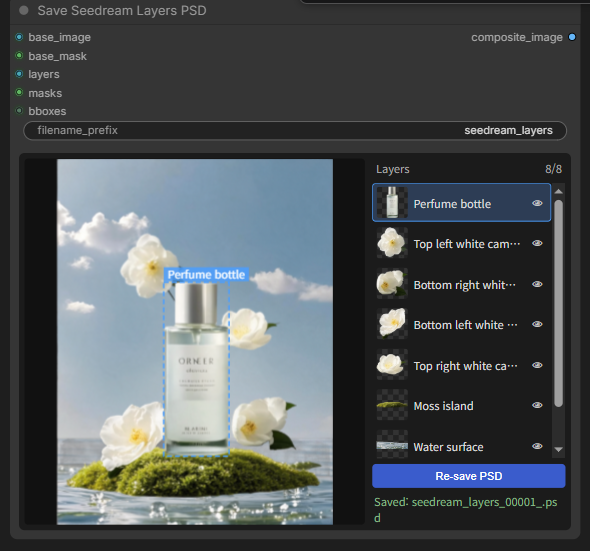
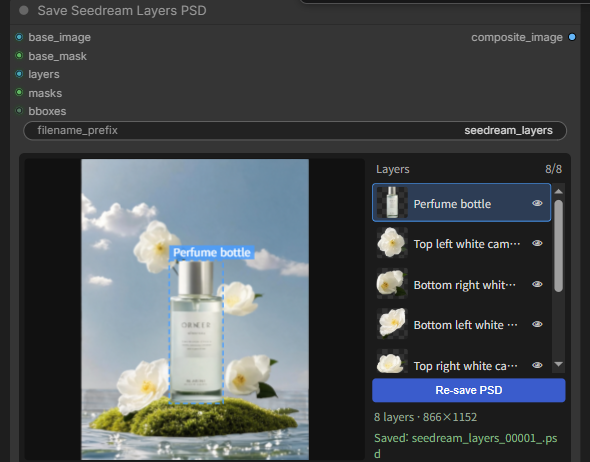
Save panel: add layer count / canvas size caption (parity with Load panel)
Also refresh the Save screenshot. Bump to 1.0.1.

diff --git a/web/js/saveSeedreamLayersPsd.js b/web/js/saveSeedreamLayersPsd.js
@@ -41,6 +41,7 @@ const STYLE = `
   background:#3a5ccc; color:#fff; font-size:12px; }
 .ssl-save:hover { background:#4a6cdc; }
 .ssl-save:disabled { background:#333; color:#777; cursor:default; }
+.ssl-info { flex:none; color:#9a9; padding:0 2px; }
 .ssl-status { flex:none; min-height:15px; max-height:45px; overflow-y:auto;
   color:#8b8; padding:0 2px; word-break:break-all; }
 .ssl-status.ssl-err { color:#c77; }
@@ -81,6 +82,7 @@ class LayerPanel {
         <div class="ssl-head"><span class="ssl-word"></span><span class="ssl-count"></span></div>
         <div class="ssl-list"></div>
         <button class="ssl-save"></button>
+        <div class="ssl-info"></div>
         <div class="ssl-status"></div>
       </div>`;
     this.root = root;
@@ -91,6 +93,7 @@ class LayerPanel {
     this.wordEl = root.querySelector(".ssl-word");
     this.countEl = root.querySelector(".ssl-count");
     this.saveBtn = root.querySelector(".ssl-save");
+    this.infoEl = root.querySelector(".ssl-info");
     this.statusEl = root.querySelector(".ssl-status");
     this.refreshTexts();
 
@@ -177,7 +180,10 @@ class LayerPanel {
     this.wordEl.textContent = t("layers");
     this.saveBtn.textContent = t("savePsdBtn");
     this.renderStatus();
-    if (this.state) this.renderList();
+    if (this.state) {
+      this.updateCount();
+      this.renderList();
+    }
   }
 
   async load(payload) {
@@ -212,6 +218,8 @@ class LayerPanel {
     const total = this.state.order.length;
     const visible = this.state.order.filter((i) => this.state.layers.get(i).visible).length;
     this.countEl.textContent = `${visible}/${total}`;
+    const [W, H] = this.state.canvas;
+    this.infoEl.textContent = t("layersCount", { n: total }) + ` · ${W}×${H}`;
   }
 
   // ---- 미리보기 캔버스 ----
